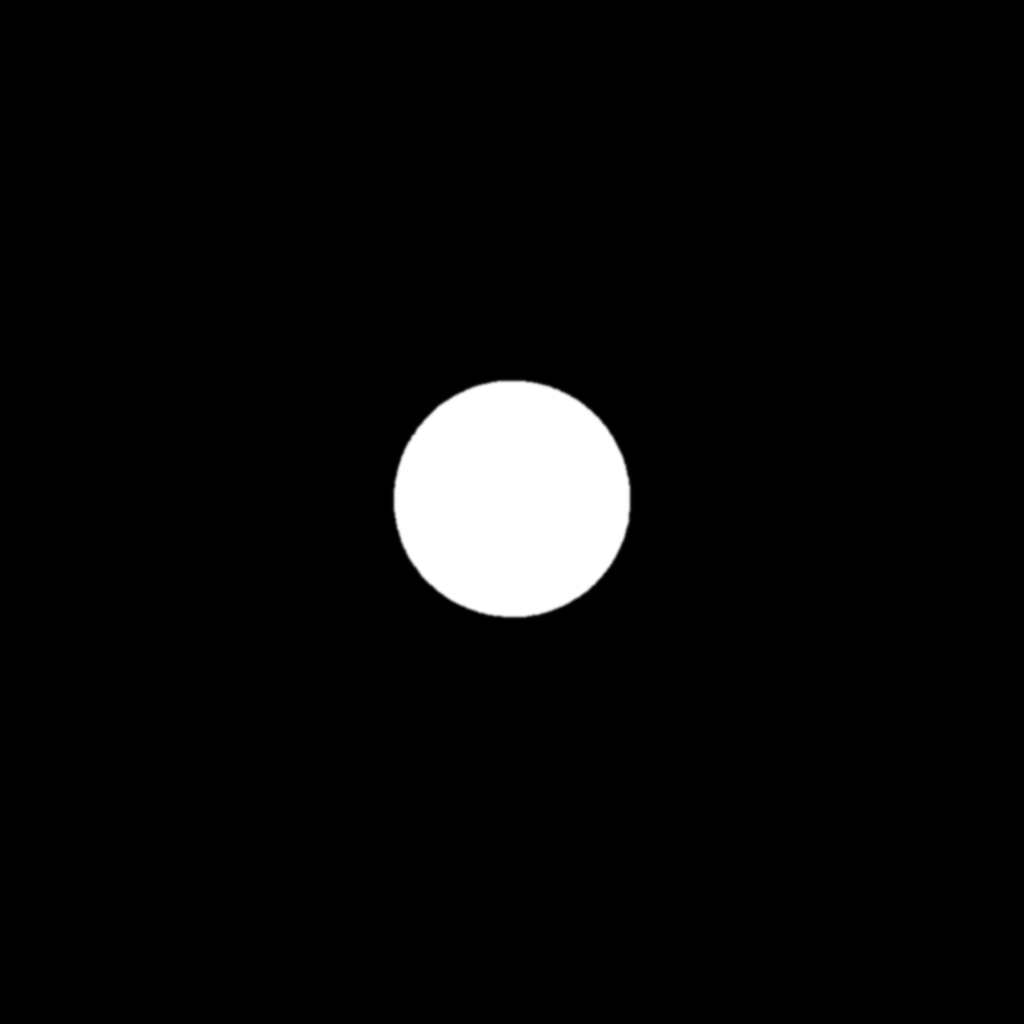
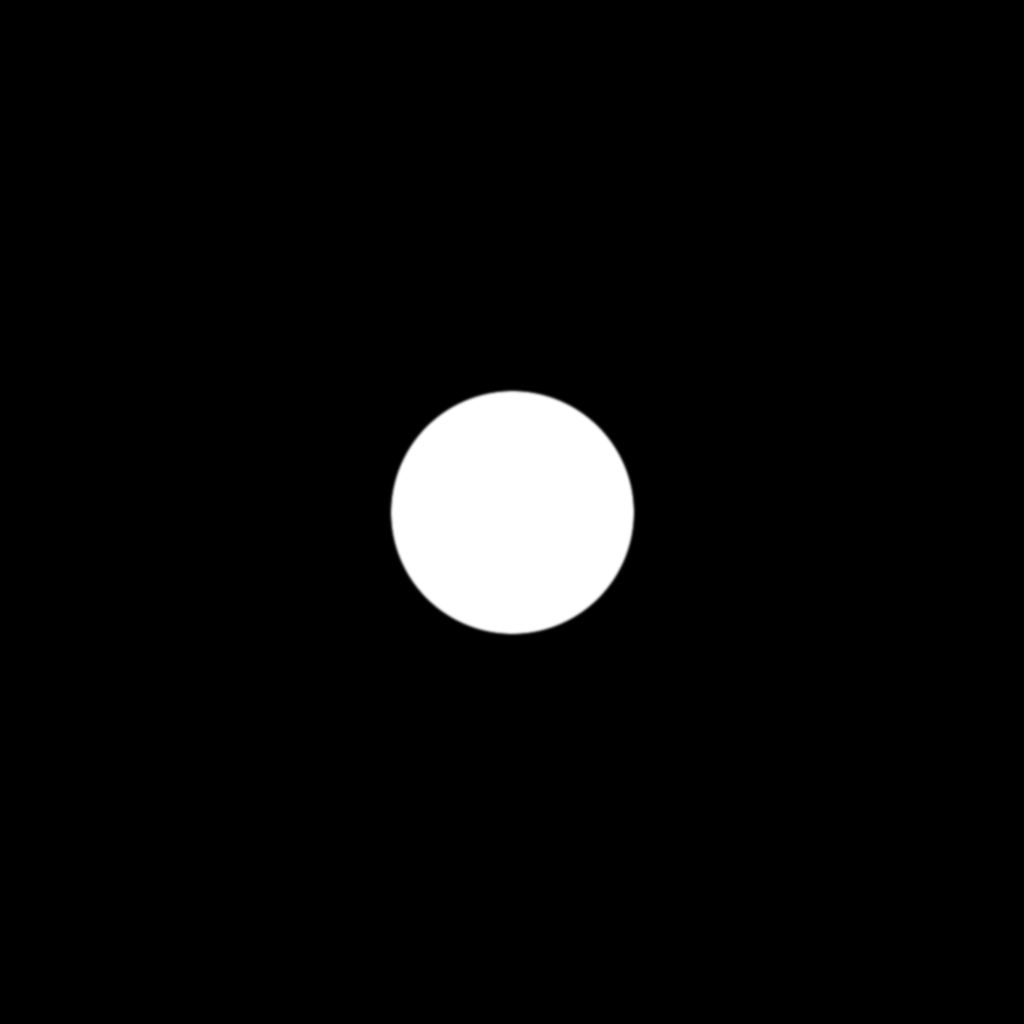
Galaxy: lensing around the black hole and a centred hole
The hole in blackhole.jpg sat 13px above the image centre, so it drifted
in a small circle as the disk spun while the black mask stayed put. The
texture now centres on its hole and the mask is a clean circle.

A lensing pass bends the scene outside the disk toward the hole and
around it, so the nebula and stars there curve into arcs.

Claude-Session: https://claude.ai/code/session_011KihS1VSAvCea1xLxDda6b

Changed region(s): [[0.375, 0.3438, 0.625, 0.5625], [0.4062, 0.5625, 0.5938, 0.625]]

diff --git a/app/components/galaxy/scene.js b/app/components/galaxy/scene.js
@@ -7,6 +7,7 @@ import { EffectComposer } from "three/examples/jsm/postprocessing/EffectComposer
 import { RenderPass } from "three/examples/jsm/postprocessing/RenderPass.js";
 import { UnrealBloomPass } from "three/examples/jsm/postprocessing/UnrealBloomPass.js";
 import { OutputPass } from "three/examples/jsm/postprocessing/OutputPass.js";
+import { ShaderPass } from "three/examples/jsm/postprocessing/ShaderPass.js";
 import { RoomEnvironment } from "three/examples/jsm/environments/RoomEnvironment.js";
 
 const BG = new THREE.Color("#07060a");
@@ -244,6 +245,25 @@ export function createGalaxy(container, opts = {}) {
 
   /* ---------- post: bloom ---------- */
   const composer = new EffectComposer(renderer); composer.addPass(new RenderPass(scene, camera));
+  /* Lensing: light passing the hole bends toward it. Outside the disk each pixel samples the scene from
+     closer to the hole and turned around it, so stars and gas there stretch into arcs. The hole and the
+     disk are left as drawn. The pull and the turn scale with the hole's size on screen (2 Nov 2026). */
+  const lens = new ShaderPass({
+    uniforms: { tDiffuse: { value: null }, center: { value: new THREE.Vector2(0.5, 0.5) }, rh: { value: 0.05 }, aspect: { value: 1 }, strength: { value: 1 } },
+    vertexShader: "varying vec2 vUv; void main() { vUv = uv; gl_Position = projectionMatrix * modelViewMatrix * vec4(position, 1.0); }",
+    fragmentShader: `uniform sampler2D tDiffuse; uniform vec2 center; uniform float rh, aspect, strength; varying vec2 vUv;
+      void main() {
+        vec2 d = vUv - center; d.x *= aspect; float r = max(length(d), 1e-5);
+        float w = strength * smoothstep(2.4 * rh, 4.0 * rh, r);
+        float pull = w * 1.2 * rh * rh / r;
+        float turn = w * 5.0 * rh * rh / (r * r + rh * rh);
+        float s = max(r - pull, 0.0);
+        vec2 dir = d / r; float c = cos(turn), sn = sin(turn); dir = vec2(c * dir.x - sn * dir.y, sn * dir.x + c * dir.y);
+        vec2 q = dir * s; q.x /= aspect;
+        gl_FragColor = texture2D(tDiffuse, center + q);
+      }`,
+  });
+  composer.addPass(lens);
   const bloom = new UnrealBloomPass(new THREE.Vector2(2, 2), phone ? 0.4 : 0.5, 0.5, 0.82); composer.addPass(bloom); composer.addPass(new OutputPass());
 
   /* ---------- interaction ---------- */
@@ -322,6 +342,8 @@ export function createGalaxy(container, opts = {}) {
     if (loaded && !ready.done) { ready.done = true; resolveReady(); }
     starMat.uniforms.t.value = t;
     const o = pick(); if (o !== hovered) { hovered = o; el.style.cursor = o ? "pointer" : "default"; }
+    { tmpV.setFromMatrixPosition(coreMesh.matrixWorld); tmpN.copy(tmpV).addScaledVector(tmpW.setFromMatrixColumn(camera.matrixWorld, 0), 13 * 0.118); tmpV.project(camera); tmpN.project(camera);
+      const u = lens.uniforms; u.center.value.set(tmpV.x * 0.5 + 0.5, tmpV.y * 0.5 + 0.5); u.aspect.value = camera.aspect; u.rh.value = Math.abs(tmpN.x - tmpV.x) * 0.5 * camera.aspect; u.strength.value = tmpV.z < 1 ? coreMat.opacity : 0; }
     composer.render();
     /* the hole again, after bloom, so the disk's glow cannot tint it (2 Nov 2026) */
     if (holeScene) { holeMat.opacity = shadow.material.opacity; renderer.autoClear = false; renderer.render(holeScene, camera); renderer.autoClear = true; }
